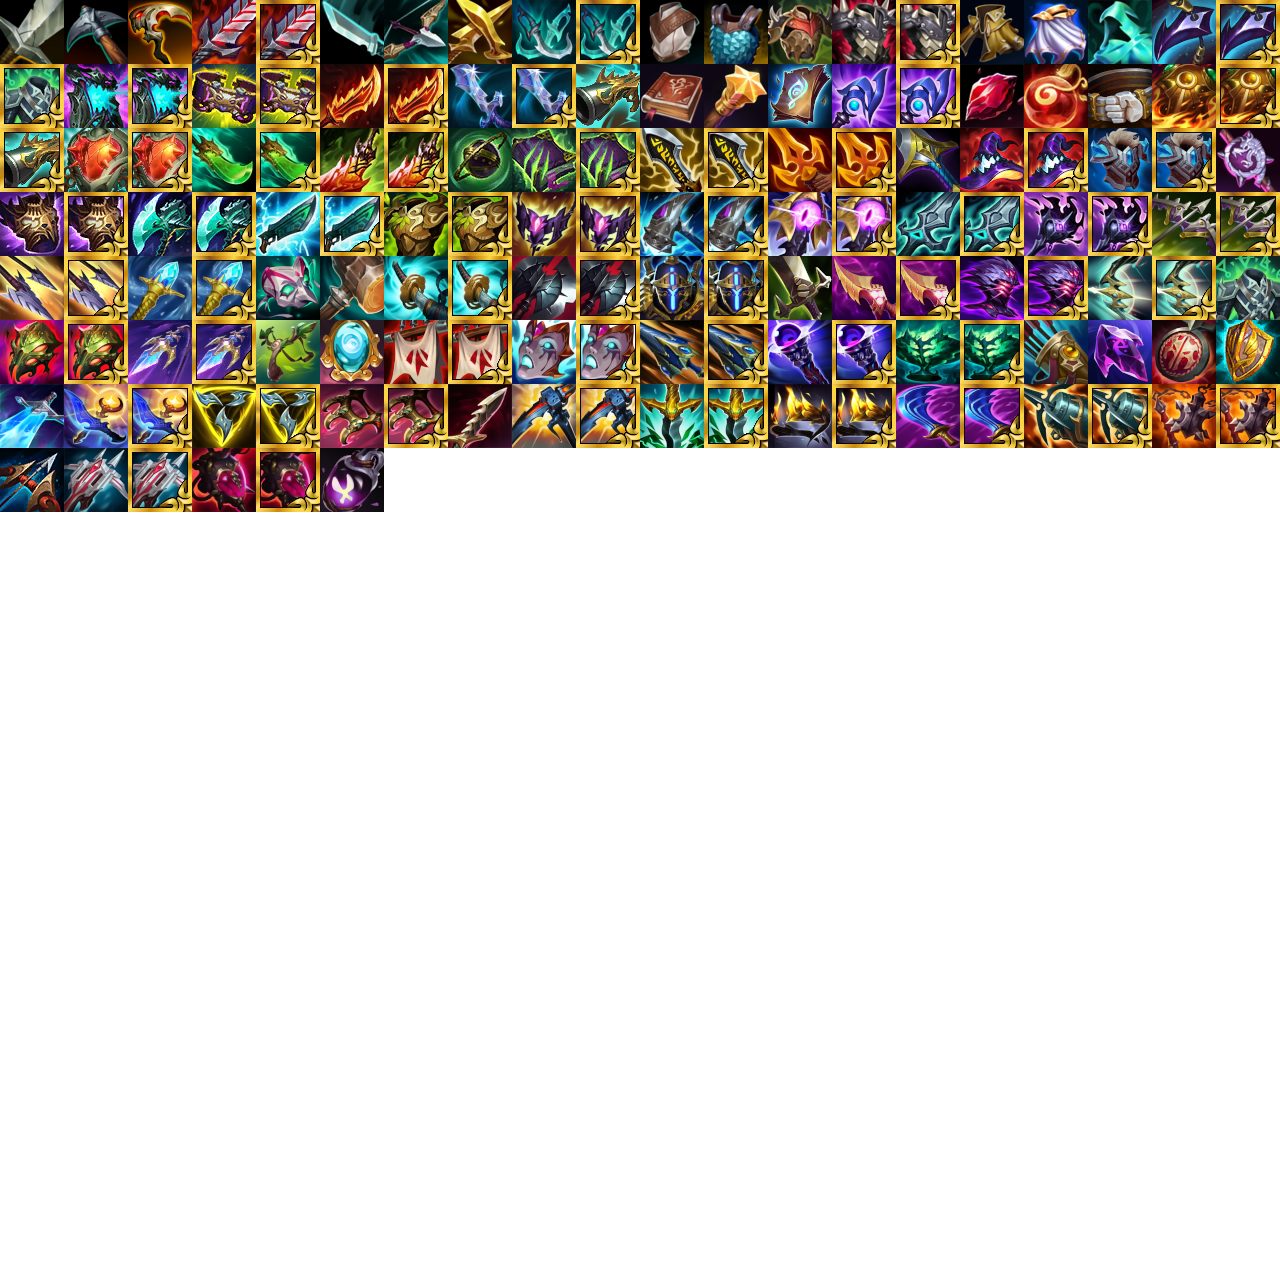
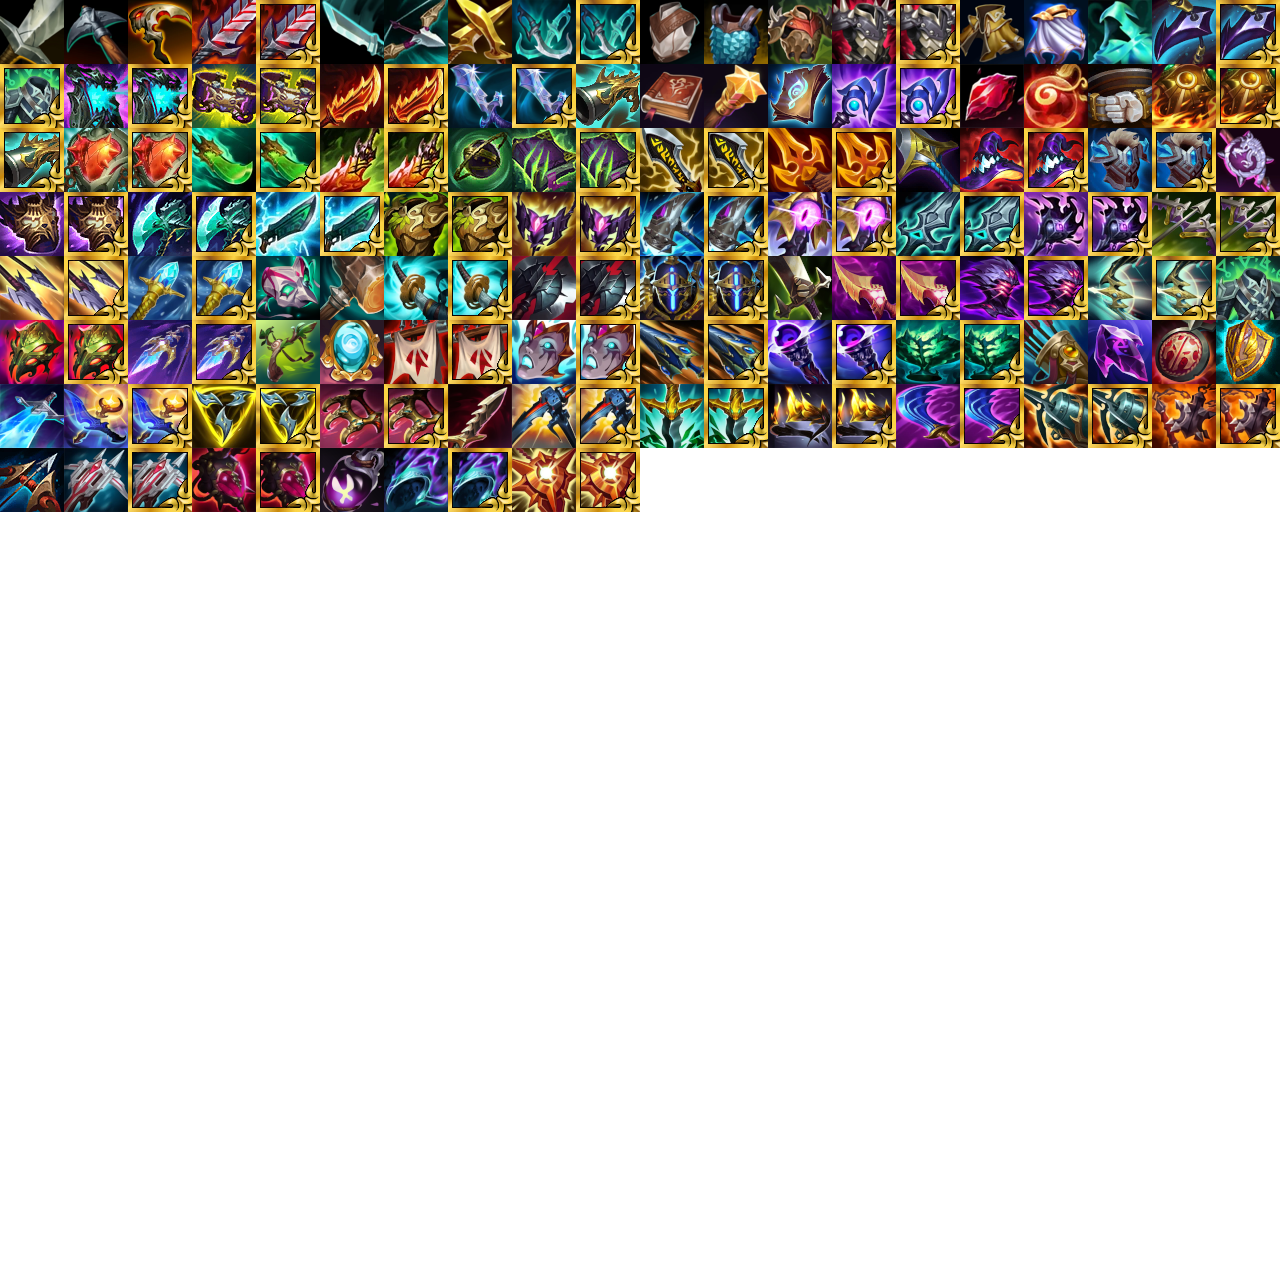
add locket and fix text inconsistencies

Changed region(s): [[0.2812, 0.3438, 0.5, 0.4062]]

diff --git a/src/items/locket_of_the_iron_solari.rs b/src/items/locket_of_the_iron_solari.rs
@@ -1,0 +1,232 @@
+use mod_api::*;
+
+use crate::config::ItemConfig;
+use crate::{
+    apply_config, buff_name, has_buff, percent_of_i32, ItemMeta, BUFF_REFRESH_DURATION_TICKS,
+    BUFF_REFRESH_PERIOD_TICKS, DISTANCE_UNITS_PER_RANGE,
+};
+
+#[derive(Clone, Debug)]
+pub struct LocketOfTheIronSolari {
+    meta: ItemMeta,
+    // Buff names are namespaced per variant so the base and radiant
+    // items keep independent stacks.
+    aura_buff: &'static str,
+    price: usize,
+    hp: i32,
+    defence: i32,
+    magic_resistance: i32,
+    skill_cooldown_mult: i32,
+    effect_bonus_defence: i32,
+    effect_bonus_magic_resistance: i32,
+    effect_bonus_hp_regen: i32,
+    effect_minion_percent: f64,
+    effect_max_distance: usize,
+    refresh_cooldown: usize,
+}
+
+impl LocketOfTheIronSolari {
+    pub fn base() -> Self {
+        Self {
+            meta: ItemMeta::base(
+                "locket_of_the_iron_solari",
+                &["aegis_of_the_legion"],
+                &["radiant_locket_of_the_iron_solari"],
+            ),
+            aura_buff: "locket_of_the_iron_solari_aura",
+            price: 1100,
+            hp: 200,
+            defence: 40,
+            magic_resistance: 60,
+            skill_cooldown_mult: 10,
+            effect_bonus_defence: 10,
+            effect_bonus_magic_resistance: 20,
+            effect_bonus_hp_regen: 4,
+            effect_minion_percent: 150.0,
+            effect_max_distance: 80,
+            refresh_cooldown: 0,
+        }
+    }
+
+    pub fn radiant() -> Self {
+        Self {
+            meta: ItemMeta::radiant(
+                "radiant_locket_of_the_iron_solari",
+                &["locket_of_the_iron_solari"],
+            ),
+            aura_buff: "radiant_locket_of_the_iron_solari_aura",
+            price: 1650,
+            hp: 300,
+            defence: 75,
+            magic_resistance: 100,
+            skill_cooldown_mult: 15,
+            ..Self::base()
+        }
+    }
+
+    pub fn with_config(cfg: &ItemConfig) -> Self {
+        Self::base().configured(cfg)
+    }
+
+    pub fn radiant_with_config(cfg: &ItemConfig) -> Self {
+        Self::radiant().configured(cfg)
+    }
+
+    fn configured(mut self, cfg: &ItemConfig) -> Self {
+        apply_config!(
+            self,
+            cfg,
+            [
+                price,
+                hp,
+                defence,
+                magic_resistance,
+                skill_cooldown_mult,
+                effect_bonus_defence,
+                effect_bonus_magic_resistance,
+                effect_bonus_hp_regen,
+                effect_minion_percent,
+                effect_max_distance
+            ]
+        );
+        self
+    }
+
+    /// Grants Legion to every living ally in range that is not already carrying
+    /// it. Minions take the same bonuses scaled by `effect_minion_percent`, so
+    /// the scan walks all entities rather than just the champion table.
+    fn apply_aura(&mut self, ctx: &mut GameCtx, player: usize) {
+        if self.refresh_cooldown > 0 {
+            self.refresh_cooldown -= 1;
+            return;
+        }
+
+        let Some(player_ref) = ctx.get_player(player) else {
+            return;
+        };
+        let Some(caster) = player_ref.champion() else {
+            return;
+        };
+        let caster_id = caster.id();
+        let caster_team = caster.team();
+
+        let range = (self.effect_max_distance * DISTANCE_UNITS_PER_RANGE) as u64;
+        let range_sq = range * range;
+
+        let mut targets: Vec<(usize, bool)> = Vec::new();
+        for index in 0..ctx.entity_count() {
+            let Some(entity_ref) = ctx.entity_at(index) else {
+                continue;
+            };
+            let id = entity_ref.id();
+            if !entity_ref.is_alive() || entity_ref.team() != caster_team || id == caster_id {
+                continue;
+            }
+            let is_minion = entity_ref.is_minion();
+            // Towers are allied entities too, and Legion is not meant for them.
+            if !is_minion && !entity_ref.is_champion() {
+                continue;
+            }
+            if ctx.distance_sq(caster_id, id) > range_sq {
+                continue;
+            }
+            if has_buff(&entity_ref, self.aura_buff) {
+                continue;
+            }
+            targets.push((id, is_minion));
+        }
+
+        for (id, is_minion) in targets {
+            let scale = |value: i32| {
+                if is_minion {
+                    percent_of_i32(value, self.effect_minion_percent)
+                } else {
+                    value
+                }
+            };
+            ctx.add_buff(
+                id,
+                BuffState {
+                    name: buff_name(self.aura_buff),
+                    duration: BuffType::Time {
+                        tick: BUFF_REFRESH_DURATION_TICKS,
+                    },
+                    defence: scale(self.effect_bonus_defence),
+                    magic_resistance: scale(self.effect_bonus_magic_resistance),
+                    hp_regen: scale(self.effect_bonus_hp_regen),
+                    ..Default::default()
+                },
+            );
+        }
+
+        self.refresh_cooldown = BUFF_REFRESH_PERIOD_TICKS;
+    }
+}
+
+impl Default for LocketOfTheIronSolari {
+    fn default() -> Self {
+        Self::base()
+    }
+}
+
+impl ModItemInfo for LocketOfTheIronSolari {
+    fn clone_box(&self) -> Box<dyn ModItemInfo> {
+        Box::new(self.clone())
+    }
+
+    fn key(&self) -> &str {
+        self.meta.key
+    }
+
+    fn icon(&self) -> &str {
+        self.meta.key
+    }
+
+    fn price(&self) -> usize {
+        self.price
+    }
+
+    fn tier(&self) -> usize {
+        self.meta.tier
+    }
+
+    fn previous_tier(&self) -> Vec<String> {
+        self.meta.previous_tier()
+    }
+
+    fn next_tier(&self) -> Vec<String> {
+        self.meta.next_tier()
+    }
+
+    fn stat(&self) -> BuffState {
+        BuffState {
+            hp: self.hp,
+            defence: self.defence,
+            magic_resistance: self.magic_resistance,
+            skill_cooldown_mult: self.skill_cooldown_mult,
+            ..Default::default()
+        }
+    }
+
+    fn on_spawn(&mut self, ctx: &mut GameCtx, player: usize) {
+        self.refresh_cooldown = 0;
+        self.apply_aura(ctx, player);
+    }
+
+    fn update(&mut self, ctx: &mut GameCtx, _rng_seed: u64, player: usize) {
+        self.apply_aura(ctx, player);
+    }
+
+    fn tags(&self) -> Vec<ItemTag> {
+        vec![
+            ItemTag::HP,
+            ItemTag::Defense,
+            ItemTag::MagicResistance,
+            ItemTag::CooltimeReduce,
+        ]
+    }
+
+    fn category(&self) -> ItemCategory {
+        ItemCategory::Defense
+    }
+}

diff --git a/src/lib.rs b/src/lib.rs
@@ -287,6 +287,7 @@ fn init(_ctx: &GameCtx) -> ModRegistration {
     reg.add_item(configured!("jaksho_the_protean" => JakshoTheProtean));
     reg.add_item(configured!("kraken_slayer" => KrakenSlayer));
     reg.add_item(configured!("liandrys_torment" => LiandrysTorment));
+    reg.add_item(configured!("locket_of_the_iron_solari" => LocketOfTheIronSolari));
     reg.add_item(configured!("lord_dominiks_regards" => LordDominiksRegards));
     reg.add_item(configured!("malignance" => Malignance));
     reg.add_item(configured!("mirage_blade" => MirageBlade));
@@ -340,6 +341,9 @@ fn init(_ctx: &GameCtx) -> ModRegistration {
     reg.add_item(configured_radiant!("radiant_jaksho_the_protean" => JakshoTheProtean));
     reg.add_item(configured_radiant!("radiant_kraken_slayer" => KrakenSlayer));
     reg.add_item(configured_radiant!("radiant_liandrys_torment" => LiandrysTorment));
+    reg.add_item(
+        configured_radiant!("radiant_locket_of_the_iron_solari" => LocketOfTheIronSolari),
+    );
     reg.add_item(configured_radiant!("radiant_lord_dominiks_regards" => LordDominiksRegards));
     reg.add_item(configured_radiant!("radiant_malignance" => Malignance));
     reg.add_item(configured_radiant!("radiant_mirage_blade" => MirageBlade));

diff --git a/src/config.rs b/src/config.rs
@@ -49,6 +49,10 @@ pub struct ItemConfig {
     pub effect_damaged_amplify: Option<usize>,
     pub effect_lethality: Option<usize>,
     pub effect_bonus_lethality: Option<usize>,
+    pub effect_bonus_defence: Option<i32>,
+    pub effect_bonus_magic_resistance: Option<i32>,
+    pub effect_bonus_hp_regen: Option<i32>,
+    pub effect_minion_percent: Option<f64>,
     pub effect_out_of_combat_seconds: Option<f64>,
     pub effect_bonus_flat_attack: Option<i32>,
     pub effect_stack_attack: Option<i32>,

diff --git a/src/items/aegis_of_the_legion.rs b/src/items/aegis_of_the_legion.rs
@@ -55,7 +55,10 @@ impl ModItemInfo for AegisOfTheLegion {
     }
 
     fn next_tier(&self) -> Vec<String> {
-        vec!["jaksho_the_protean".to_string()]
+        vec![
+            "jaksho_the_protean".to_string(),
+            "locket_of_the_iron_solari".to_string(),
+        ]
     }
 
     fn stat(&self) -> BuffState {

diff --git a/src/items/mod.rs b/src/items/mod.rs
@@ -46,6 +46,7 @@ items! {
     kraken_slayer,
     last_whisper,
     liandrys_torment,
+    locket_of_the_iron_solari,
     lord_dominiks_regards,
     malignance,
     mirage_blade,

diff --git a/README.md b/README.md
@@ -1,5 +1,5 @@
 Adds items inspired from Riot Games (LoL, TFT) to Teamfight Manager 2.  
-Reskins the 30 existing items and also adds 118 new items (67 base + 51 Radiant) to the game.
+Reskins the 30 existing items and also adds 120 new items (68 base + 52 Radiant) to the game.
 
 ##### Check it out on Steam Workshop! 
 https://steamcommunity.com/sharedfiles/filedetails/?id=3739568852
@@ -66,6 +66,7 @@ https://docs.google.com/spreadsheets/d/e/2PACX-1vRnFUzULF0sIUQt4UwlOf0CGtuc9nJWp
 | **Jak’Sho, The Protean** | 1400G | +300 HP<br>+40 Armor<br>+65 MR | When you take damage from an enemy champion, gain +6% armor and +6% magic resistance for 4 seconds (max 4 stacks). |
 | **Kraken Slayer** | 1400G | +45 AD<br>+25% AS<br>+4% MS | Bring It Down: Every third basic attack deals 150 bonus physical damage, increased by up to 75% based on the target's missing health (maximum bonus at 25% target health). |
 | **Liandry's Torment** | 1400G | +350 HP<br>+75 AP | Suffering: Dealing Ability damage burns enemies, causing them to take 6% of their maximum health as magic damage over 3 seconds. Deals a maximum of 40 magic damage per tick against minions and monsters. |
+| **Locket of the Iron Solari** | 1100G | +200 HP<br>+40 Armor<br>+60 MR<br>+10% CDR | Legion: Nearby allies gain 10 bonus armor, 20 bonus magic resistance, and 4 health regeneration. Minions gain 150% of this value. |
 | **Lord Dominik's Regards** | 1450G | +45 AD<br>+20% Crit Chance<br>+25% Armor Pen | Giant Slayer: Deal 3% bonus damage for every 1000 maximum health the target has, up to 15%. |
 | **Malignance** | 1250G | +120 AP<br>+12% CDR | Scorn: Gain 12% cooldown reduction on your ultimate skill. |
 | **Mirage Blade** | 1500G | +40% AS<br>+10% MS | Gain 60 Adaptive Force. On kill, grant 20% movement speed for 2 seconds. |
@@ -122,6 +123,7 @@ https://docs.google.com/spreadsheets/d/e/2PACX-1vRnFUzULF0sIUQt4UwlOf0CGtuc9nJWp
 | **Radiant Jak’Sho, The Protean** | 2000G | +550 HP<br>+65 Armor<br>+65 MR | When you take damage from an enemy champion, gain +10% armor and +10% magic resistance for 4 seconds (max 4 stacks). |
 | **Radiant Kraken Slayer** | 2000G | +75 AD<br>+45% AS<br>+4% MS | Bring It Down: Every third basic attack deals 150 bonus physical damage, increased by up to 75% based on the target's missing health (maximum bonus at 25% target health). |
 | **Radiant Liandry's Torment** | 2000G | +550 HP<br>+150 AP | Suffering: Dealing Ability damage burns enemies, causing them to take 6% of their maximum health as magic damage over 3 seconds. Deals a maximum of 40 magic damage per tick against minions and monsters. |
+| **Radiant Locket of the Iron Solari** | 1650G | +300 HP<br>+75 Armor<br>+100 MR<br>+15% CDR | Legion: Nearby allies gain 10 bonus armor, 20 bonus magic resistance, and 4 health regeneration. Minions gain 150% of this value. |
 | **Radiant Lord Dominik's Regards** | 2000G | +85 AD<br>+25% Crit Chance<br>+35% Armor Pen | Giant Slayer: Deal 3% bonus damage for every 1000 maximum health the target has, up to 15%. |
 | **Radiant Malignance** | 1900G | +200 AP<br>+20% CDR | Scorn: Gain 20% cooldown reduction on your ultimate skill. |
 | **Radiant Mortal Reminder** | 2000G | +85 AD<br>+25% Crit Chance<br>+30% Armor Pen | Dealing physical damage to an enemy champion reduces the target’s healing by 40% for 2 seconds. |

diff --git a/workshop_desc.md b/workshop_desc.md
@@ -1,4 +1,4 @@
-Adds 118 new items (67 base + 51 Radiant) inspired by Riot Games (LoL/TFT/Arena) to Teamfight Manager 2.  
+Adds 120 new items (68 base + 52 Radiant) inspired by Riot Games (LoL/TFT/Arena) to Teamfight Manager 2.  
 
 Also re-skins the 30 existing items and adds some custom icons for Armor Penetration, Magic Penetration, Cooldown Reduction, Tenacity, Omnivamp, and Skill Damage Reduction.  
 
